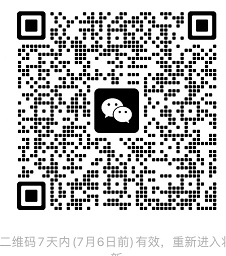
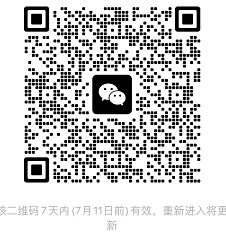
docs: 微信群图片更新

diff --git a/src/docs/关于/更新日志.md b/src/docs/关于/更新日志.md
@@ -1,10 +1,11 @@
-# [更新日志](https://github.com/tomiaa12/kyx/compare/0.1.4...更新日志) (2023-06-25)
+# [更新日志](https://github.com/tomiaa12/kyx/compare/0.1.4...更新日志) (2023-07-05)
 
 
 ### 💄 风格
 
 * 图表加载失败时高度<sub style="color: var(--vp-c-gray)">2023-06-21</sub> ([e0addfb](https://github.com/tomiaa12/kyx/commit/e0addfb4e4e6b8282f7a4d042ff9cce902a99ab7))
-* 交流群 fixd z index 数值<sub style="color: var(--vp-c-gray)">2023-06-25</sub> ([2a7f4be](https://github.com/tomiaa12/kyx/commit/2a7f4bef025eaf25ce8eb49d72294add76a17b61))
+* 更新微信群<sub style="color: var(--vp-c-gray)">2023-06-29</sub> ([6574333](https://github.com/tomiaa12/kyx/commit/6574333df4559d21521b3704fac1fe44211e2b88))
+* 交流群 fixd z index 数值<sub style="color: var(--vp-c-gray)">2023-06-25</sub> ([3f5a40a](https://github.com/tomiaa12/kyx/commit/3f5a40ac347e4cc3fa26aca373f8353495757818))
 
 
 ### 📝 文档
@@ -46,11 +47,11 @@
 
 ### 💄 风格
 
-* 列表响应式调整<sub style="color: var(--vp-c-gray)">2023-06-20</sub> ([6d0069b](https://github.com/tomiaa12/kyx/commit/6d0069b696217e2dafb66555781dfe3bd184bf13))
 * 首页 actions 宽度<sub style="color: var(--vp-c-gray)">2023-06-20</sub> ([530d29a](https://github.com/tomiaa12/kyx/commit/530d29a3c66b48140259b45c66b2069fb2046f62))
 * loading 样式未显示<sub style="color: var(--vp-c-gray)">2023-06-20</sub> ([4ac43f5](https://github.com/tomiaa12/kyx/commit/4ac43f55d8390f827dbd60e9ce690a05f77bc07a))
-* 滚动条颜色<sub style="color: var(--vp-c-gray)">2023-06-20</sub> ([072058b](https://github.com/tomiaa12/kyx/commit/072058b67db25e993b055d77cb73ed8971f3486d))
 * 不显示outline<sub style="color: var(--vp-c-gray)">2023-06-20</sub> ([8c6b880](https://github.com/tomiaa12/kyx/commit/8c6b8809156a6a24ea1c0cca84b57aed95e4d059))
+* 滚动条颜色<sub style="color: var(--vp-c-gray)">2023-06-20</sub> ([072058b](https://github.com/tomiaa12/kyx/commit/072058b67db25e993b055d77cb73ed8971f3486d))
+* 列表响应式调整<sub style="color: var(--vp-c-gray)">2023-06-20</sub> ([6d0069b](https://github.com/tomiaa12/kyx/commit/6d0069b696217e2dafb66555781dfe3bd184bf13))
 
 
 
@@ -79,39 +80,39 @@
 
 ### ✨ 新功能
 
-* nes 游戏列表<sub style="color: var(--vp-c-gray)">2023-06-13</sub> ([e1aabf5](https://github.com/tomiaa12/kyx/commit/e1aabf59a2c012e128601d11e455ea397c4244fb))
-* nesVue 加载ROM<sub style="color: var(--vp-c-gray)">2023-06-13</sub> ([f2b4883](https://github.com/tomiaa12/kyx/commit/f2b48836a58742a44606c89a3e8854dab64a3b18))
 * 新增搜索功能<sub style="color: var(--vp-c-gray)">2023-06-19</sub> ([e711113](https://github.com/tomiaa12/kyx/commit/e7111131f6a1af85bfcd27f5d61b27c2a10ebae9))
 * 首页增加支持我 button<sub style="color: var(--vp-c-gray)">2023-06-16</sub> ([434cbca](https://github.com/tomiaa12/kyx/commit/434cbcada4a92bec46f8ff4641f4703d26bc1cb7))
 * algolia配置<sub style="color: var(--vp-c-gray)">2023-06-16</sub> ([2327411](https://github.com/tomiaa12/kyx/commit/2327411356cd6696209b3da1693c4fb719a262be))
 * 适配排版<sub style="color: var(--vp-c-gray)">2023-06-15</sub> ([910266b](https://github.com/tomiaa12/kyx/commit/910266b4ee0737ce55d7776e9704fce5e437f880))
 * 按键提示<sub style="color: var(--vp-c-gray)">2023-06-14</sub> ([f531715](https://github.com/tomiaa12/kyx/commit/f5317154211c48d472f026d716313355026522b8))
 * 失焦后暂停游戏<sub style="color: var(--vp-c-gray)">2023-06-14</sub> ([a3870ce](https://github.com/tomiaa12/kyx/commit/a3870cecd8a84737b4223db9d3d383944d2774ee))
+* 暂停重启按钮<sub style="color: var(--vp-c-gray)">2023-06-14</sub> ([6f796bc](https://github.com/tomiaa12/kyx/commit/6f796bc71ad0e7b54a1a59b188453c12e941d37e))
 * 添加回到顶部按钮<sub style="color: var(--vp-c-gray)">2023-06-14</sub> ([e76685c](https://github.com/tomiaa12/kyx/commit/e76685c72705aeca793624ac397191eb3252e27f))
 * 游戏开始界面详情<sub style="color: var(--vp-c-gray)">2023-06-14</sub> ([0607062](https://github.com/tomiaa12/kyx/commit/0607062ecdd13511b7794e8498f5afdf47753e25))
-* 暂停重启按钮<sub style="color: var(--vp-c-gray)">2023-06-14</sub> ([6f796bc](https://github.com/tomiaa12/kyx/commit/6f796bc71ad0e7b54a1a59b188453c12e941d37e))
 * live2d 最大宽度改为 300<sub style="color: var(--vp-c-gray)">2023-06-14</sub> ([b602fc5](https://github.com/tomiaa12/kyx/commit/b602fc511a96c175d527ea456b4b116c7a012567))
+* nes 游戏列表<sub style="color: var(--vp-c-gray)">2023-06-13</sub> ([e1aabf5](https://github.com/tomiaa12/kyx/commit/e1aabf59a2c012e128601d11e455ea397c4244fb))
+* nesVue 加载ROM<sub style="color: var(--vp-c-gray)">2023-06-13</sub> ([f2b4883](https://github.com/tomiaa12/kyx/commit/f2b48836a58742a44606c89a3e8854dab64a3b18))
 
 
 ### 🐛 Bug 修复
 
-* build nes组件只在客户端加载<sub style="color: var(--vp-c-gray)">2023-06-15</sub> ([85b7939](https://github.com/tomiaa12/kyx/commit/85b7939aeb647001584b6c4709b23f6c0e24d79e))
 * 标题错误<sub style="color: var(--vp-c-gray)">2023-03-09</sub> ([4c0b775](https://github.com/tomiaa12/kyx/commit/4c0b7753e8a427782649f112ec2d96fe76a83dbd))
+* build nes组件只在客户端加载<sub style="color: var(--vp-c-gray)">2023-06-15</sub> ([85b7939](https://github.com/tomiaa12/kyx/commit/85b7939aeb647001584b6c4709b23f6c0e24d79e))
 
 
 ### 💄 风格
 
-* 导航，软件样式修改<sub style="color: var(--vp-c-gray)">2023-06-13</sub> ([55ce62b](https://github.com/tomiaa12/kyx/commit/55ce62b5e04108a37da53b1288e52a77a5f80994))
 * 648px 列表项适配<sub style="color: var(--vp-c-gray)">2023-06-15</sub> ([257c352](https://github.com/tomiaa12/kyx/commit/257c35227cfb6b0e16299a1d357bf52359bf9862))
 * 图片圆角<sub style="color: var(--vp-c-gray)">2023-06-14</sub> ([95736f9](https://github.com/tomiaa12/kyx/commit/95736f99570f9b7cbe16255a981cb9206012e99f))
 * 像素字体<sub style="color: var(--vp-c-gray)">2023-06-14</sub> ([a8182db](https://github.com/tomiaa12/kyx/commit/a8182db207a1ac230384b15041008269497a314d))
+* 导航，软件样式修改<sub style="color: var(--vp-c-gray)">2023-06-13</sub> ([55ce62b](https://github.com/tomiaa12/kyx/commit/55ce62b5e04108a37da53b1288e52a77a5f80994))
 
 
 ### 📝 文档
 
+* @tomiaa/vue3-components 深色模式组件<sub style="color: var(--vp-c-gray)">2023-03-09</sub> ([2c82302](https://github.com/tomiaa12/kyx/commit/2c82302a9878b5b360c6577cf6067b389ebdc014))
 * 首页新增游戏按钮<sub style="color: var(--vp-c-gray)">2023-06-16</sub> ([6adf07c](https://github.com/tomiaa12/kyx/commit/6adf07c7e52ceae6f7d77a4563ef48dc1b1b4c51))
 * readme 修改<sub style="color: var(--vp-c-gray)">2023-06-16</sub> ([ef14c77](https://github.com/tomiaa12/kyx/commit/ef14c777f1e438578781a6cd66bf6c44b2c666d2))
-* @tomiaa/vue3-components 深色模式组件<sub style="color: var(--vp-c-gray)">2023-03-09</sub> ([2c82302](https://github.com/tomiaa12/kyx/commit/2c82302a9878b5b360c6577cf6067b389ebdc014))
 
 
 
